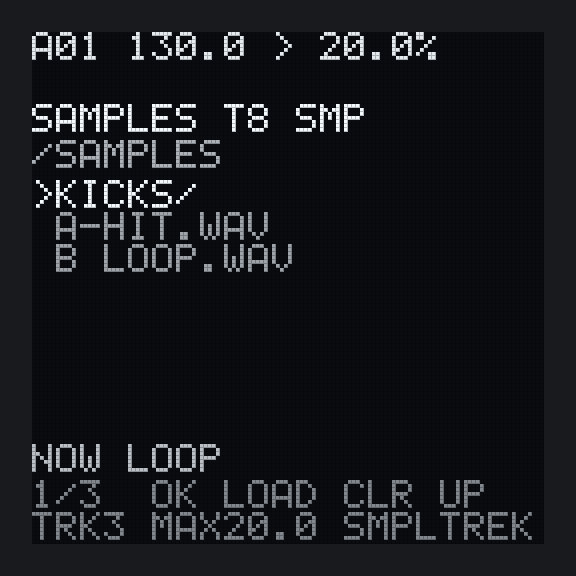
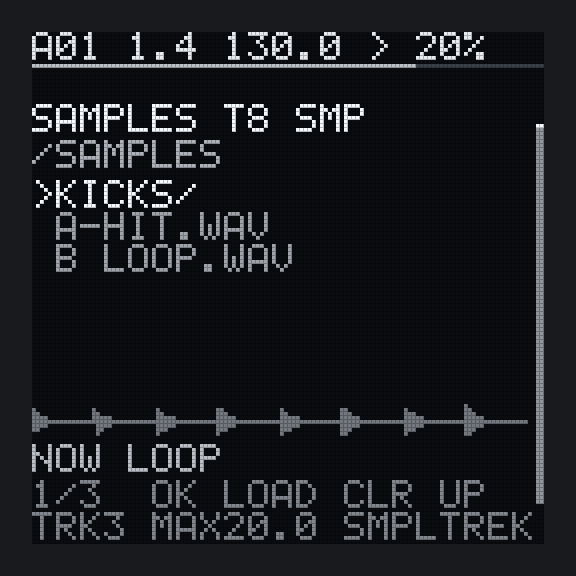
edit: a dot rides the AMP and ASR envelope; SAMPLES shows the track's waveform
Machine::envelope_now (SAMPLE's loudest voice, GRAIN's cloud, the MONO synths) goes
to Status::env_stage/env_level with the wave view; the dot is found on the curve by
stage and level. The sample browser lists seven rows and draws what the track plays
under them from the same overview.

Changed region(s): [[0.0312, 0.2188, 0.9688, 0.875], [0.0625, 0.0312, 0.9375, 0.125]]

diff --git a/app/app.hpp b/app/app.hpp
@@ -1485,7 +1485,7 @@ public:
                 break;
             case Mode::samples:
                 // A page of the list, like LEFT and RIGHT.
-                move_sample_cursor_to(sample_cursor_ + delta * kSampleRows);
+                move_sample_cursor_to(sample_cursor_ + delta * kSampleListRows);
                 break;
             case Mode::sounds:
                 // The track, as in MACHINE, so one hand can try a sound on each of the eight.
@@ -3591,7 +3591,7 @@ public:
         if (picture != EditPicture::none) {
             if (!readout) draw_picture_line(canvas, picture);
             if (picture == EditPicture::wave) draw_wave(canvas);
-            else draw_envelope(canvas, envelope_for(picture));
+            else draw_envelope(canvas, envelope_for(picture), picture == EditPicture::amp);
             return;
         }
 
@@ -3810,6 +3810,29 @@ public:
         }
     }
 
+    // An overview as a plain strip, `rows` tall from `top`: each column's range about the middle,
+    // the loudest filling the height. The sample browser's picture of what the track plays.
+    static void draw_overview_strip(enaga::Canvas &canvas, const WaveOverview &overview, int top,
+                                    int rows) {
+        const int half = (rows - 1) / 2;
+        const int middle = top + half;
+        const int filled = overview.filled > kWaveColumns ? kWaveColumns : int(overview.filled);
+        int peak = 8;
+        for (int x = 0; x < filled; x++) {
+            peak = -int(overview.lo[x]) > peak ? -int(overview.lo[x]) : peak;
+            peak = int(overview.hi[x]) > peak ? int(overview.hi[x]) : peak;
+        }
+        for (int x = 0; x < kWaveColumns; x++) {
+            if (x >= filled) {
+                if (x % 3 == 0) canvas.pixel(x, middle, 3);
+                continue;
+            }
+            const int up = int(overview.hi[x]) > 0 ? int(overview.hi[x]) * half / peak : 0;
+            const int down = int(overview.lo[x]) < 0 ? -int(overview.lo[x]) * half / peak : 0;
+            canvas.rect(x, middle - up, 1, up + down + 1, 6);
+        }
+    }
+
     // An envelope as the knobs shape it. Widths go by the knob, not the time it makes: every
     // time curve here is exponential in its knob, so this is a log-time drawing, which is what
     // lets 2 ms and 5 s share 124 pixels.
@@ -3887,7 +3910,9 @@ public:
         return 0;
     }
 
-    void draw_envelope(enaga::Canvas &canvas, const EnvelopePicture &e) {
+    // `ride`: also the dot where the track's last note is on the curve (Status::env_stage),
+    // on AMP and ASR, which draw the amplitude envelope the dot belongs to.
+    void draw_envelope(enaga::Canvas &canvas, const EnvelopePicture &e, bool ride) {
         const int bottom = kPictureTop + kPictureRows - 1;
         const int span = kPictureRows - 1;
         // Segment ends: attack up to 26 px, decay 2-40, a 14 px plateau and a 2-40 px release
@@ -3904,6 +3929,7 @@ public:
 
         // The curve as a function of x, each column joined to the last so a steep fall has no
         // gaps. An exponential fall to 1% is drawn as (1 - t)^3, near enough to read.
+        float curve[kWaveColumns] = {};
         int last = bottom;
         for (int x = 0; x <= xr; x++) {
             float level;
@@ -3920,12 +3946,15 @@ public:
                 const float u = 1.0f - float(x - xs) / float(xr - xs);
                 level = settle * u * u * u;
             }
+            curve[x] = level;
             const int y = bottom - int(level * top * float(span) + 0.5f);
             const int from = y < last ? y : last;
             const int to = y < last ? last : y;
             canvas.rect(x, from, 1, to - from + 1, 13);
             last = y;
         }
+
+        if (ride) draw_envelope_dot(canvas, e, curve, xa, xd, xs, xr, settle);
 
         // The handles a knob on this page moves, with its letter, as CyDrums draws them.
         const int sus_y = bottom - int(settle * top * float(span) + 0.5f);
@@ -3968,6 +3997,48 @@ public:
             placed_y[placed] = ly;
             placed++;
         }
+    }
+
+    // Where the track's last note is on its envelope: a hollow square on the curve, found by its
+    // stage and then, along that stage's columns, the first whose level is at or below the
+    // note's. Nothing when the machine does not say or the note is over.
+    void draw_envelope_dot(enaga::Canvas &canvas, const EnvelopePicture &e, const float *curve,
+                           int xa, int xd, int xs, int xr, float settle) {
+        const Status &status = engine_.status();
+        const uint8_t stage = status.env_stage[selected_].load(std::memory_order_relaxed);
+        const float level =
+            float(status.env_level[selected_].load(std::memory_order_relaxed)) * (1.0f / 255.0f);
+        if (stage == 0 || level < 0.004f) return;
+        int x = -1;
+        const auto find_falling = [&](int from, int to) {
+            for (int i = from; i <= to && i < kWaveColumns; i++) {
+                if (curve[i] <= level) return i;
+            }
+            return to;
+        };
+        switch (stage) {
+            case 1:                                       // attack: rising to the peak
+                x = 1 + int(float(xa - 1) * level + 0.5f);
+                break;
+            case 2:                                       // decay
+                x = e.hold ? (xa + xd) / 2 : find_falling(xa, xd);
+                break;
+            case 3:                                       // sustain: the plateau, or a parked 0
+                x = e.holds ? (xd + xs) / 2 : (e.hold ? (xa + xd) / 2 : find_falling(xa, xd));
+                break;
+            default:                                      // release
+                x = e.holds ? find_falling(xs, xr) : find_falling(xa, xd);
+                break;
+        }
+        (void)settle;
+        if (x < 0 || x >= kWaveColumns) return;
+        const int bottom = kPictureTop + kPictureRows - 1;
+        const int y = bottom - int(curve[x] * float(e.peak) * (1.0f / 127.0f) *
+                                   float(kPictureRows - 1) + 0.5f);
+        const int x0 = x - 1 < 0 ? 0 : x - 1;
+        const int y0 = y - 1 < kPictureTop ? kPictureTop : (y + 1 > bottom ? bottom - 2 : y - 1);
+        canvas.rect(x0, y0, 3, 3, 15);
+        canvas.pixel(x0 + 1, y0 + 1, 0);
     }
 
     // SLC AUTO on this track: the kit's byte, which only the audio side writes, by command.
@@ -4960,6 +5031,8 @@ public:
     // press and the kit browser's recall takes two.
 
     static constexpr int kSampleRows = 8;
+    // SAMPLES shows one fewer: the waveform of what the track plays sits under the list.
+    static constexpr int kSampleListRows = 7;
 
     static bool is_file_machine(uint8_t id) {
         return id == uint8_t(MachineId::sample) || id == uint8_t(MachineId::grain);
@@ -5129,8 +5202,9 @@ public:
             case ENAGA_KEY_LEFT:
             case ENAGA_KEY_RIGHT:
                 if (!shift_) {
-                    move_sample_cursor_to(sample_cursor_ +
-                                          (key == ENAGA_KEY_LEFT ? -kSampleRows : kSampleRows));
+                    move_sample_cursor_to(sample_cursor_ + (key == ENAGA_KEY_LEFT
+                                                                ? -kSampleListRows
+                                                                : kSampleListRows));
                 }
                 return true;
 
@@ -5177,11 +5251,11 @@ public:
         canvas.text(0, 27, line, 10);
 
         const int count = list.count();
-        const int first = (sample_cursor_ / kSampleRows) * kSampleRows;
+        const int first = (sample_cursor_ / kSampleListRows) * kSampleListRows;
         if (count == 0 && !storage_.browsing()) {
             canvas.text(0, 37, list.skipped() > 0 ? "NOTHING THAT FITS" : "NO WAV FILES HERE", 9);
         }
-        for (int i = 0; i < kSampleRows && first + i < count; i++) {
+        for (int i = 0; i < kSampleListRows && first + i < count; i++) {
             const int at = first + i;
             out = line;
             *out++ = at == sample_cursor_ ? '>' : ' ';
@@ -5192,6 +5266,9 @@ public:
             *out = 0;
             canvas.text(0, 37 + i * 8, line, at == sample_cursor_ ? 15 : (folder ? 11 : 9));
         }
+
+        // What the track plays now, as a strip of its waveform (rows 93-101), then by name.
+        draw_overview_strip(canvas, storage_.overview(selected_), 93, 9);
 
         // What the track plays now, and where in the list we are.
         out = line;

diff --git a/tests/test_ui.cpp b/tests/test_ui.cpp
@@ -8837,3 +8837,50 @@ TEST(ui_envelope_on_asr_holds_when_sus_is_up) {
     CHECK(screen_has(app, "NOT ON THIS MACHINE"));
     key(ENAGA_KEY_F4);
 }
+
+TEST(ui_envelope_a_dot_rides_the_amp_curve_while_a_note_plays) {
+    Strata &app = fresh();
+    track_with_break(MachineId::sample);
+    edit_page_to(Page::amp);
+    post_cmd_track_param(0, 8, 40);                 // ATK
+    post_cmd_track_param(0, 9, 90);                 // DEC: a long fall
+    pump(8);
+    const auto bright = [] {
+        int n = 0;
+        for (int y = 96; y < 118; y++) {
+            for (int x = 0; x < kWaveColumns; x++) n += pixel_at(x, y) == 15 ? 1 : 0;
+        }
+        return n;
+    };
+    draw_now();
+    const int idle = bright();
+    CHECK_EQ(int(app_engine().status().env_stage[0].load()), 0);
+    note_on_track_1();
+    pump(450);                                       // 0.6 s: well down the fall, past handle A
+    const uint8_t stage = app_engine().status().env_stage[0].load();
+    CHECK(stage >= 1 && stage <= 3);
+    CHECK(app_engine().status().env_level[0].load() > 0);
+    draw_now();
+    CHECK(bright() > idle);                          // the dot: a hollow square on the curve
+    check_layout(app, "EDIT AMP, SAMPLE, a note playing");
+    // FLTR on a synth draws the filter's envelope: no amplitude dot on it.
+    back_to_a_kick();
+}
+
+TEST(ui_samples_the_browser_shows_the_waveform_of_what_the_track_plays) {
+    Strata &app = fresh();
+    track_with_break(MachineId::sample);
+    seed_sample_card();
+    key(ENAGA_KEY_OK);                              // SAMPLES on track 1
+    for (int i = 0; i < 400 && app_storage().browsing(); i++) pump();
+    CHECK_EQ(UiProbe::mode(app), int(Mode::samples));
+    draw_now();
+    int lit = 0;
+    for (int y = 93; y < 102; y++) {
+        for (int x = 0; x < kWaveColumns; x++) lit += pixel_at(x, y) == 6 ? 1 : 0;
+    }
+    CHECK(lit > 100);
+    check_layout(app, "SAMPLES with the waveform strip");
+    key(ENAGA_KEY_CLR);
+    back_to_a_kick();
+}

diff --git a/dsp/va.hpp b/dsp/va.hpp
@@ -294,6 +294,7 @@ public:
     }
 
     float amp_level() const { return amp_.level(); }
+    uint8_t amp_stage() const { return uint8_t(amp_.stage()); }
 
     // Fade out over kChokeFrames and stop: how the shared voice budget takes a voice from
     // another track (va.cpp says why not a kill or a release). A no-op on a silent voice or one
@@ -385,6 +386,13 @@ public:
     float target_pitch() const { return voice_.target_pitch(); }
     // The amplitude envelope's level: what a slide must not reset.
     float amp_level() const { return voice_.amp_level(); }
+    // The voice's envelope, for EDIT's dot (Machine::envelope_now).
+    bool envelope_now(uint8_t &stage, float &level) const override {
+        if (!active_) return false;
+        stage = voice_.amp_stage();
+        level = voice_.amp_level();
+        return true;
+    }
     float decay_seconds() const { return settings_.decay_s; }
     float glide_seconds() const { return glide_s_; }
     // SUS as the envelope holds it, 0-1: what the ASR page's prepare left.

diff --git a/dsp/track.hpp b/dsp/track.hpp
@@ -195,6 +195,16 @@ public:
     // out the rest. Machines that use all of SRC and AMP return 8.
     virtual int used_params() const { return 8; }
 
+    // The amplitude envelope of the note most worth showing, for the dot EDIT's AMP and ASR
+    // pictures ride on their curve: its stage (enaga::dsp::Envelope::Stage as a byte, 0 idle) and
+    // level, 0-1 of the peak. Audio context, read by the engine every few blocks. False when the
+    // machine does not say, which is every machine but SAMPLE, GRAIN and the MONO synths.
+    virtual bool envelope_now(uint8_t &stage, float &level) const {
+        (void)stage;
+        (void)level;
+        return false;
+    }
+
     // Three-letter names for the 16 parameter slots, for the encoder labels. Index 0-15; a
     // machine returns "---" for a slot it does not use. The font has upper case and digits only.
     virtual const char *param_name(int index) const = 0;

diff --git a/app/engine.cpp b/app/engine.cpp
@@ -2250,6 +2250,15 @@ void Engine::publish_waves() {
     if (++wave_block_ < kWaveEveryBlocks) return;
     wave_block_ = 0;
     for (int t = 0; t < kTracks; t++) {
+        uint8_t stage = 0;
+        float level = 0.0f;
+        if (machines_[t] == nullptr || !machines_[t]->envelope_now(stage, level)) stage = 0;
+        const float scaled = level * 255.0f + 0.5f;
+        status_.env_stage[t].store(stage, std::memory_order_relaxed);
+        status_.env_level[t].store(stage == 0 ? 0u : uint8_t(scaled > 255.0f ? 255.0f
+                                                             : (scaled < 0.0f ? 0.0f : scaled)),
+                                   std::memory_order_relaxed);
+
         const uint8_t id = machine_id_[t];
         if (id != uint8_t(MachineId::sample) && id != uint8_t(MachineId::grain)) continue;
         // An idle machine was last prepared when it last played, so its window would lag the

diff --git a/dsp/sample.cpp b/dsp/sample.cpp
@@ -297,6 +297,17 @@ void Sampler::wave_view(WaveView &view) const {
     }
 }
 
+bool Sampler::envelope_now(uint8_t &stage, float &level) const {
+    const Voice *loudest = nullptr;
+    for (const Voice &v : voices_) {
+        if (v.playing && (loudest == nullptr || v.amp.level() > loudest->amp.level())) loudest = &v;
+    }
+    if (loudest == nullptr) return false;
+    stage = uint8_t(loudest->amp.stage());
+    level = loudest->amp.level();
+    return true;
+}
+
 void Sampler::set_sample(const int16_t *data, uint32_t frames, int channels, float source_rate) {
     // The voices are reading the buffer that is being taken away, so they stop. A crossfade
     // between two samples belongs to the app, which has both buffers; the machine has one.

diff --git a/dsp/grain.hpp b/dsp/grain.hpp
@@ -256,6 +256,13 @@ public:
     // each live grain with its window times the cloud's envelope as its brightness. Audio
     // context, called by the engine every few blocks.
     void wave_view(WaveView &view) const;
+    // The cloud's envelope.
+    bool envelope_now(uint8_t &stage, float &level) const override {
+        if (!active_) return false;
+        stage = uint8_t(amp_.stage());
+        level = amp_.level();
+        return true;
+    }
 
     static constexpr int kGrains = kPoolSize;
     // Linear interpolation needs two frames, but a buffer that small is not a sample. Four, as

diff --git a/app/commands.hpp b/app/commands.hpp
@@ -543,6 +543,11 @@ struct Status {
         }
     };
     WaveStatus wave[8];
+    // And each track's amplitude envelope, for the dot on EDIT's AMP and ASR curve
+    // (Machine::envelope_now): the stage (0 idle, 1 attack, 2 decay, 3 sustain, 4 release) and
+    // the level, 0-255. Written with `wave`, for every track whose machine says.
+    std::atomic<uint8_t> env_stage[8] = {};
+    std::atomic<uint8_t> env_level[8] = {};
 
     // Which pattern is live, so the UI can draw it without reaching into the project.
     std::atomic<uint8_t> live_bank{0};

diff --git a/dsp/sample.hpp b/dsp/sample.hpp
@@ -145,6 +145,8 @@ public:
     // the START..END window, a bit for each slice start, and each playing voice with its
     // envelope's level. Audio context, called by the engine every few blocks; a few multiplies.
     void wave_view(WaveView &view) const;
+    // The loudest playing voice's envelope.
+    bool envelope_now(uint8_t &stage, float &level) const override;
 
     static constexpr int kVoices = 4;
     static constexpr int kSlicesMax = 16;
